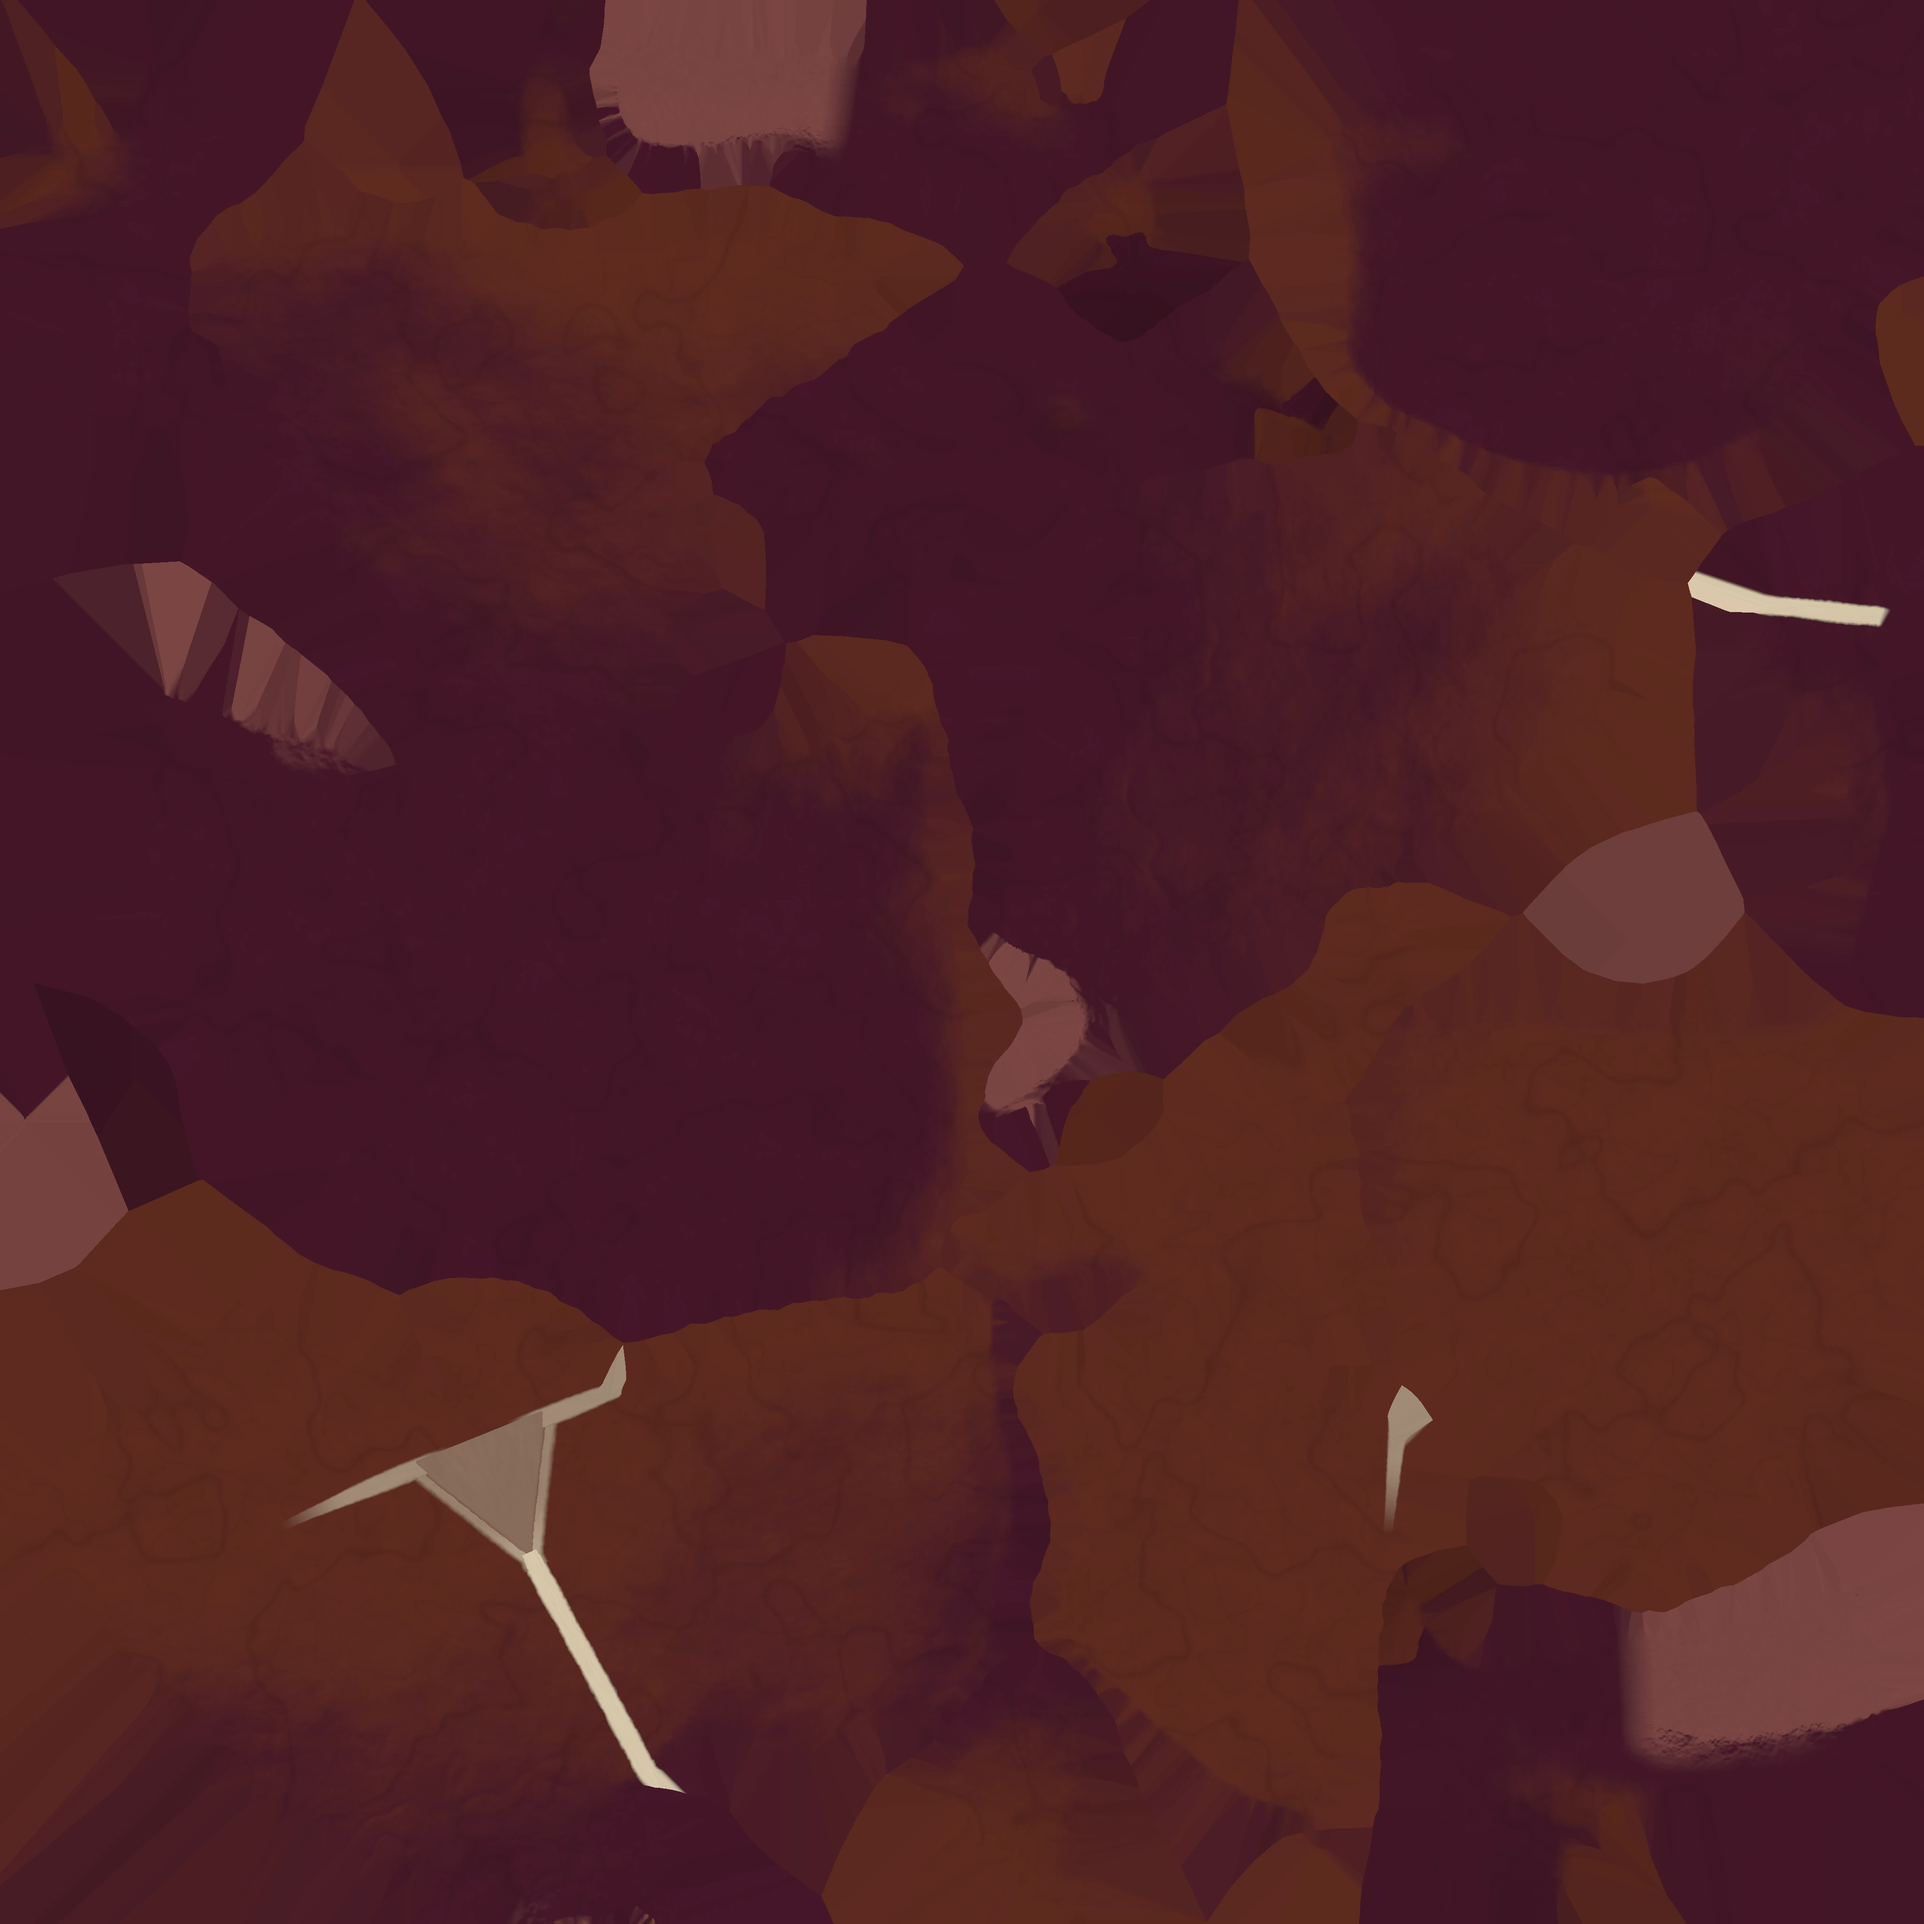
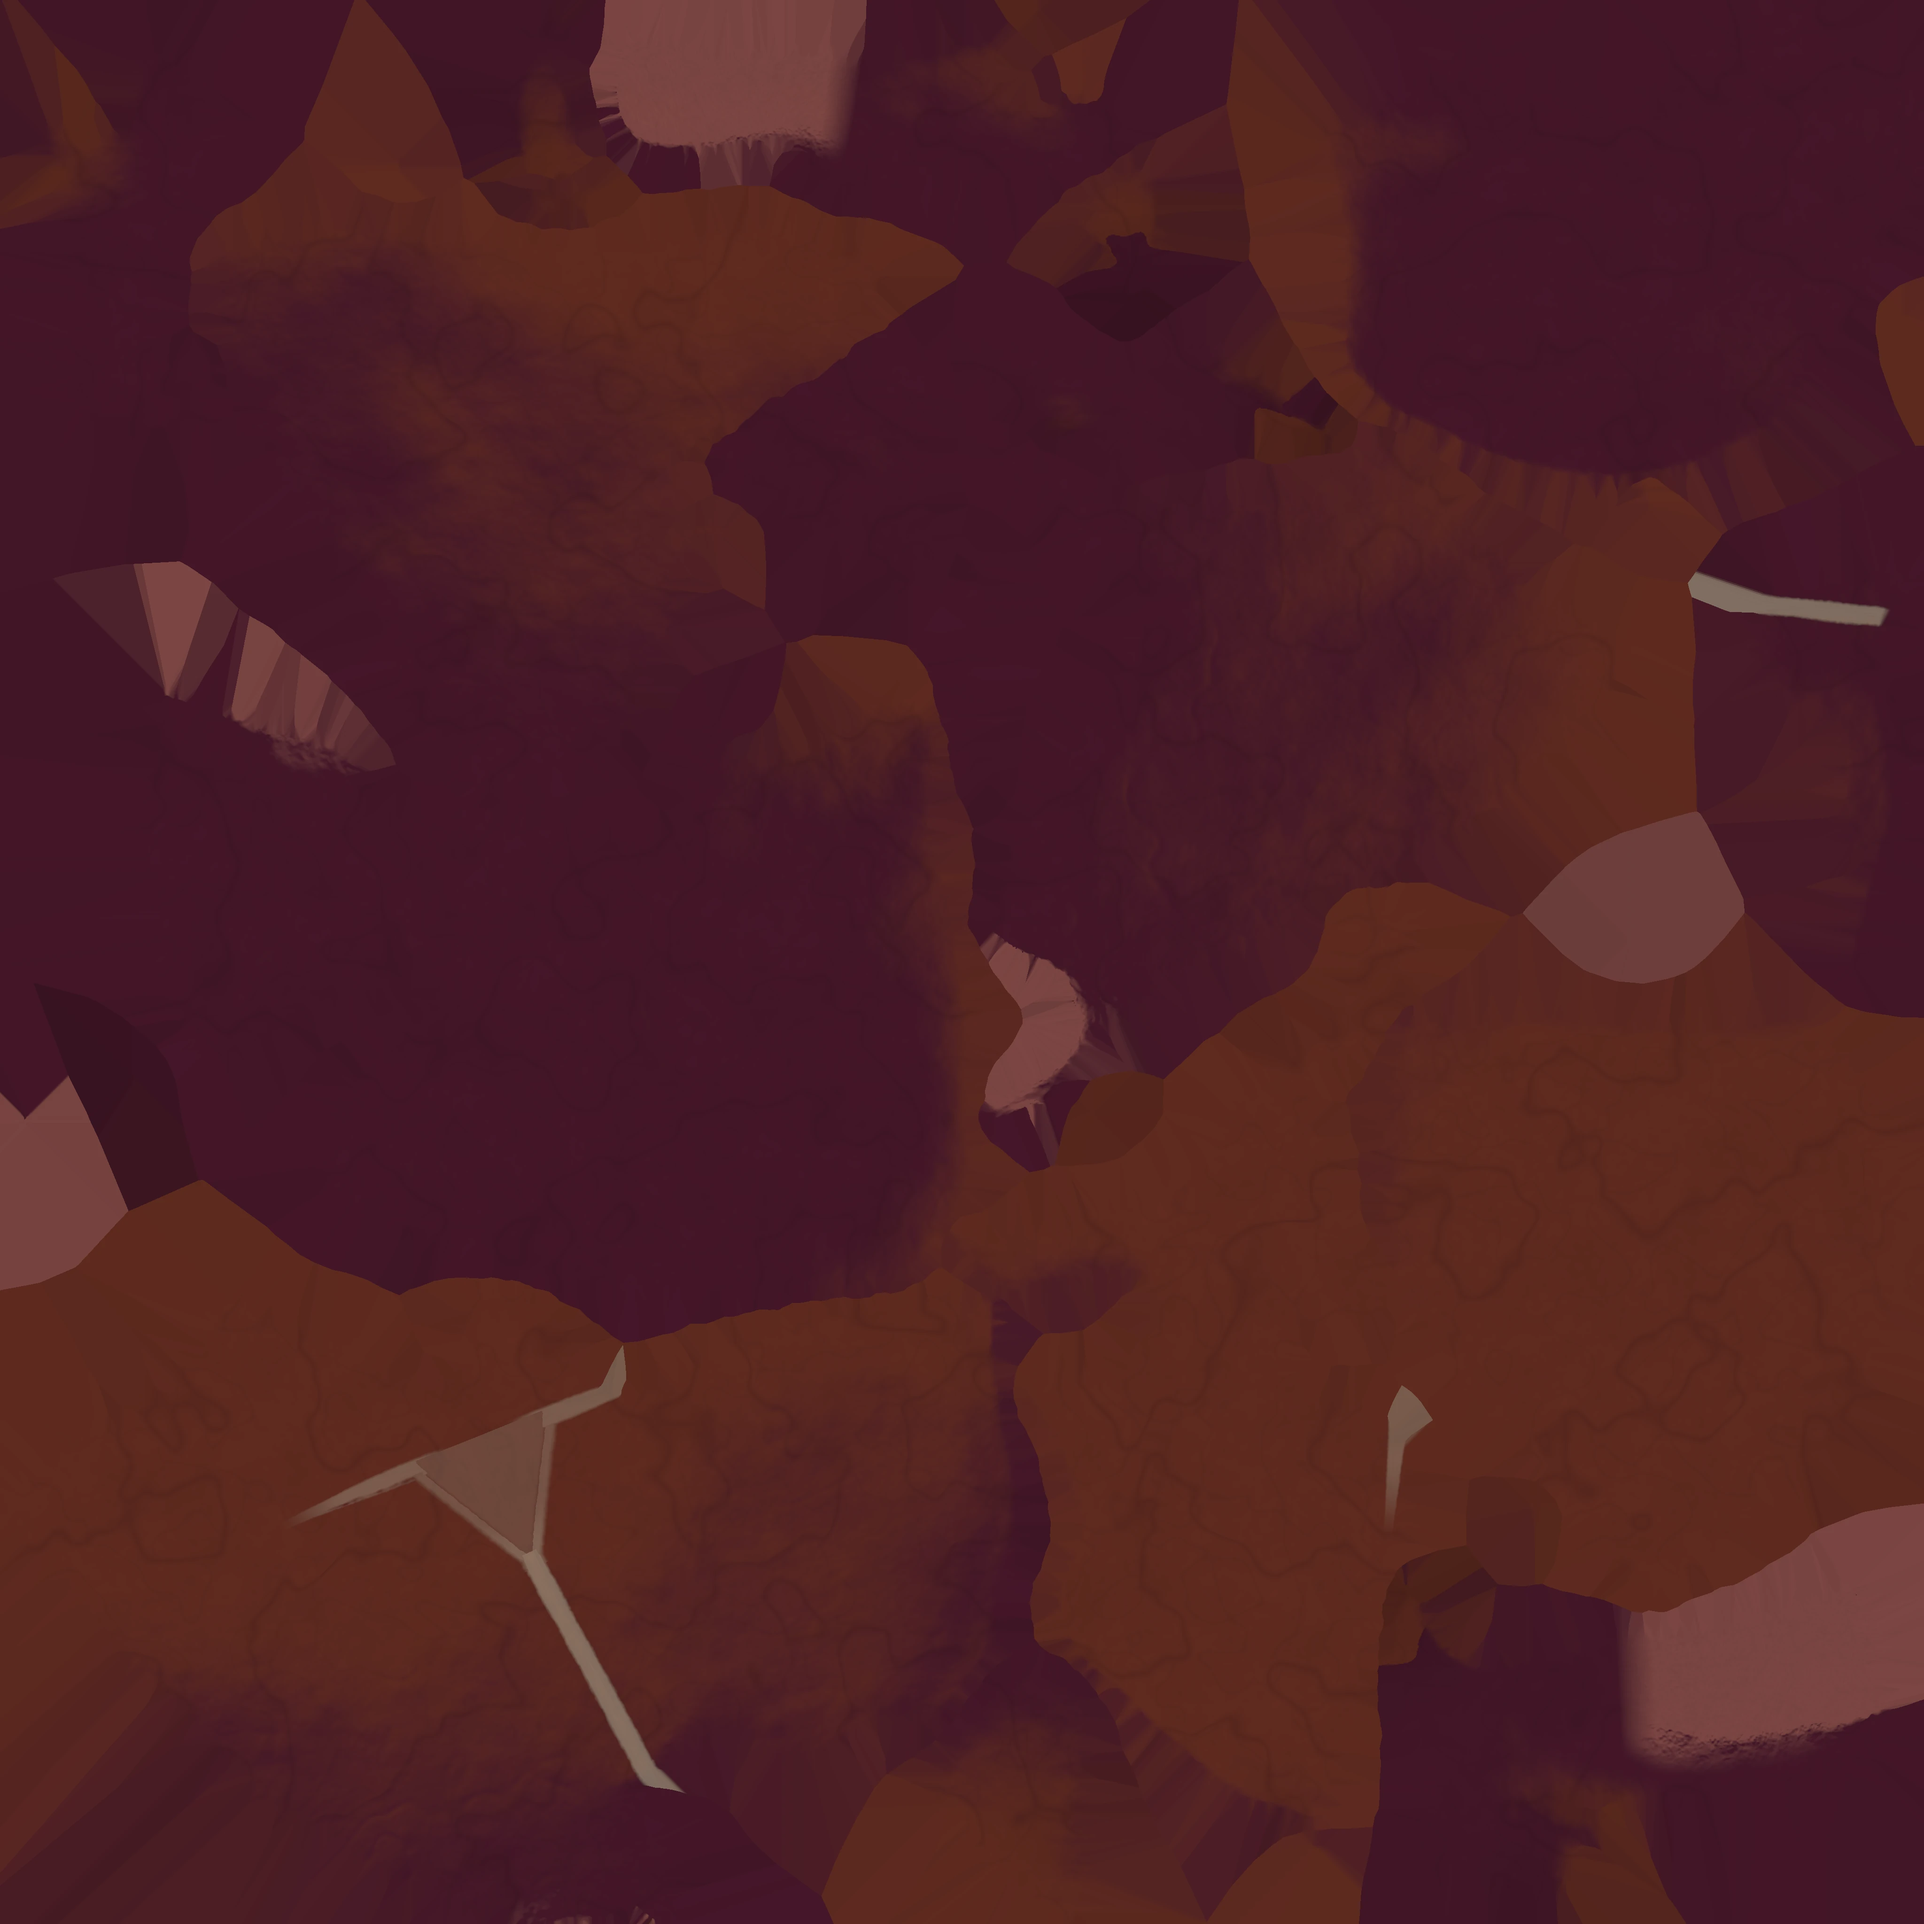
Task 2 (v46b): falciform ligament raised ~2 mm and much more transparent, same pale colour
Band crest 0.75 → 2.0 mm (fan layers and coronary a little raised too); painted opacity band 0.92 → 0.24, fan edges
0.55 → 0.18, fan membrane 0.22 → 0.07, coronary 0.40 → 0.14, so the liver shows through the pale fibrous tissue.
Liver maps re-baked.

Claude-Session: https://claude.ai/code/session_01NbmsN7L12bzQ6FyRe6mrkM

diff --git a/pipeline/bake44.py b/pipeline/bake44.py
@@ -373,7 +373,7 @@ def compose_liver(X, ao, cav, curv, thick, onrm=None):
     if k.any():
         lc = lin(FALC_COL)[None] * (1 + 0.11 * fb[k] + 0.05 * m2[k])[:, None] * (0.78 + 0.22 * ao[k] ** 0.8)[:, None]
         lc = lc * (1 - 0.08 * (1 - fm[k]))[:, None] + lin('#C89A86')[None] * (0.08 * (1 - fm[k]))[:, None]   # translucent edges
-        a = fm[k] * np.select([fk[k] == 0, fk[k] == 1, fk[k] == 2], [0.92, 0.55, 0.22], 0.40)   # v46: fan membrane (kind 2 = inside the layers) and coronary faint; were 0.92 / 0.78 / 0.92
+        a = fm[k] * np.select([fk[k] == 0, fk[k] == 1, fk[k] == 2], [0.24, 0.18, 0.07], 0.14)   # v46b: much more transparent, same pale colour (v46 0.92 / 0.55 / 0.22 / 0.40)
         col[k] = col[k] * (1 - a)[:, None] + lc * a[:, None]
         rough[k] = rough[k] * (1 - fm[k]) + (0.46 + 0.05 * fb[k]) * fm[k]; wetn[k] = wetn[k] * (1 - 0.45 * fm[k])
     return np.clip(col, 0, 1), rough, wetn

diff --git a/pipeline/falc45.py b/pipeline/falc45.py
@@ -128,7 +128,7 @@ class Falciform:
         k = np.where(cor > np.maximum(band, fan), 3, np.where(band >= fan, 0, np.where(lay > 0.5 * ef, 2, 1)))
         # relief: soft dome across the band; layers and coronary a little raised, fan membrane lower
         prof = np.where(k == 0, 1 - np.clip(u, 0, 1) ** 2, np.where(k == 3, 1 - np.clip(np.abs(t + 0.5 * COR_W) / cw, 0, 1) ** 2, 1.0))
-        hgt = np.select([k == 0, k == 1, k == 2, k == 3], [0.75, 0.15, 0.30, 0.28]) / MM   # v46: band 0.60 → 0.75, the rest lower
+        hgt = np.select([k == 0, k == 1, k == 2, k == 3], [2.0, 0.25, 0.60, 0.55]) / MM   # v46b: band raised ~2 mm (v46 0.75, v45 0.60)
         # fibres: along the band and the coronary, radiating from the apex across the fan
         ang = np.arctan2(d, np.maximum(s - self.sA, 1e-3) + 4 / MM)
         fu = np.select([k == 0, k == 3], [d * 420, t * 420], ang * 55)
